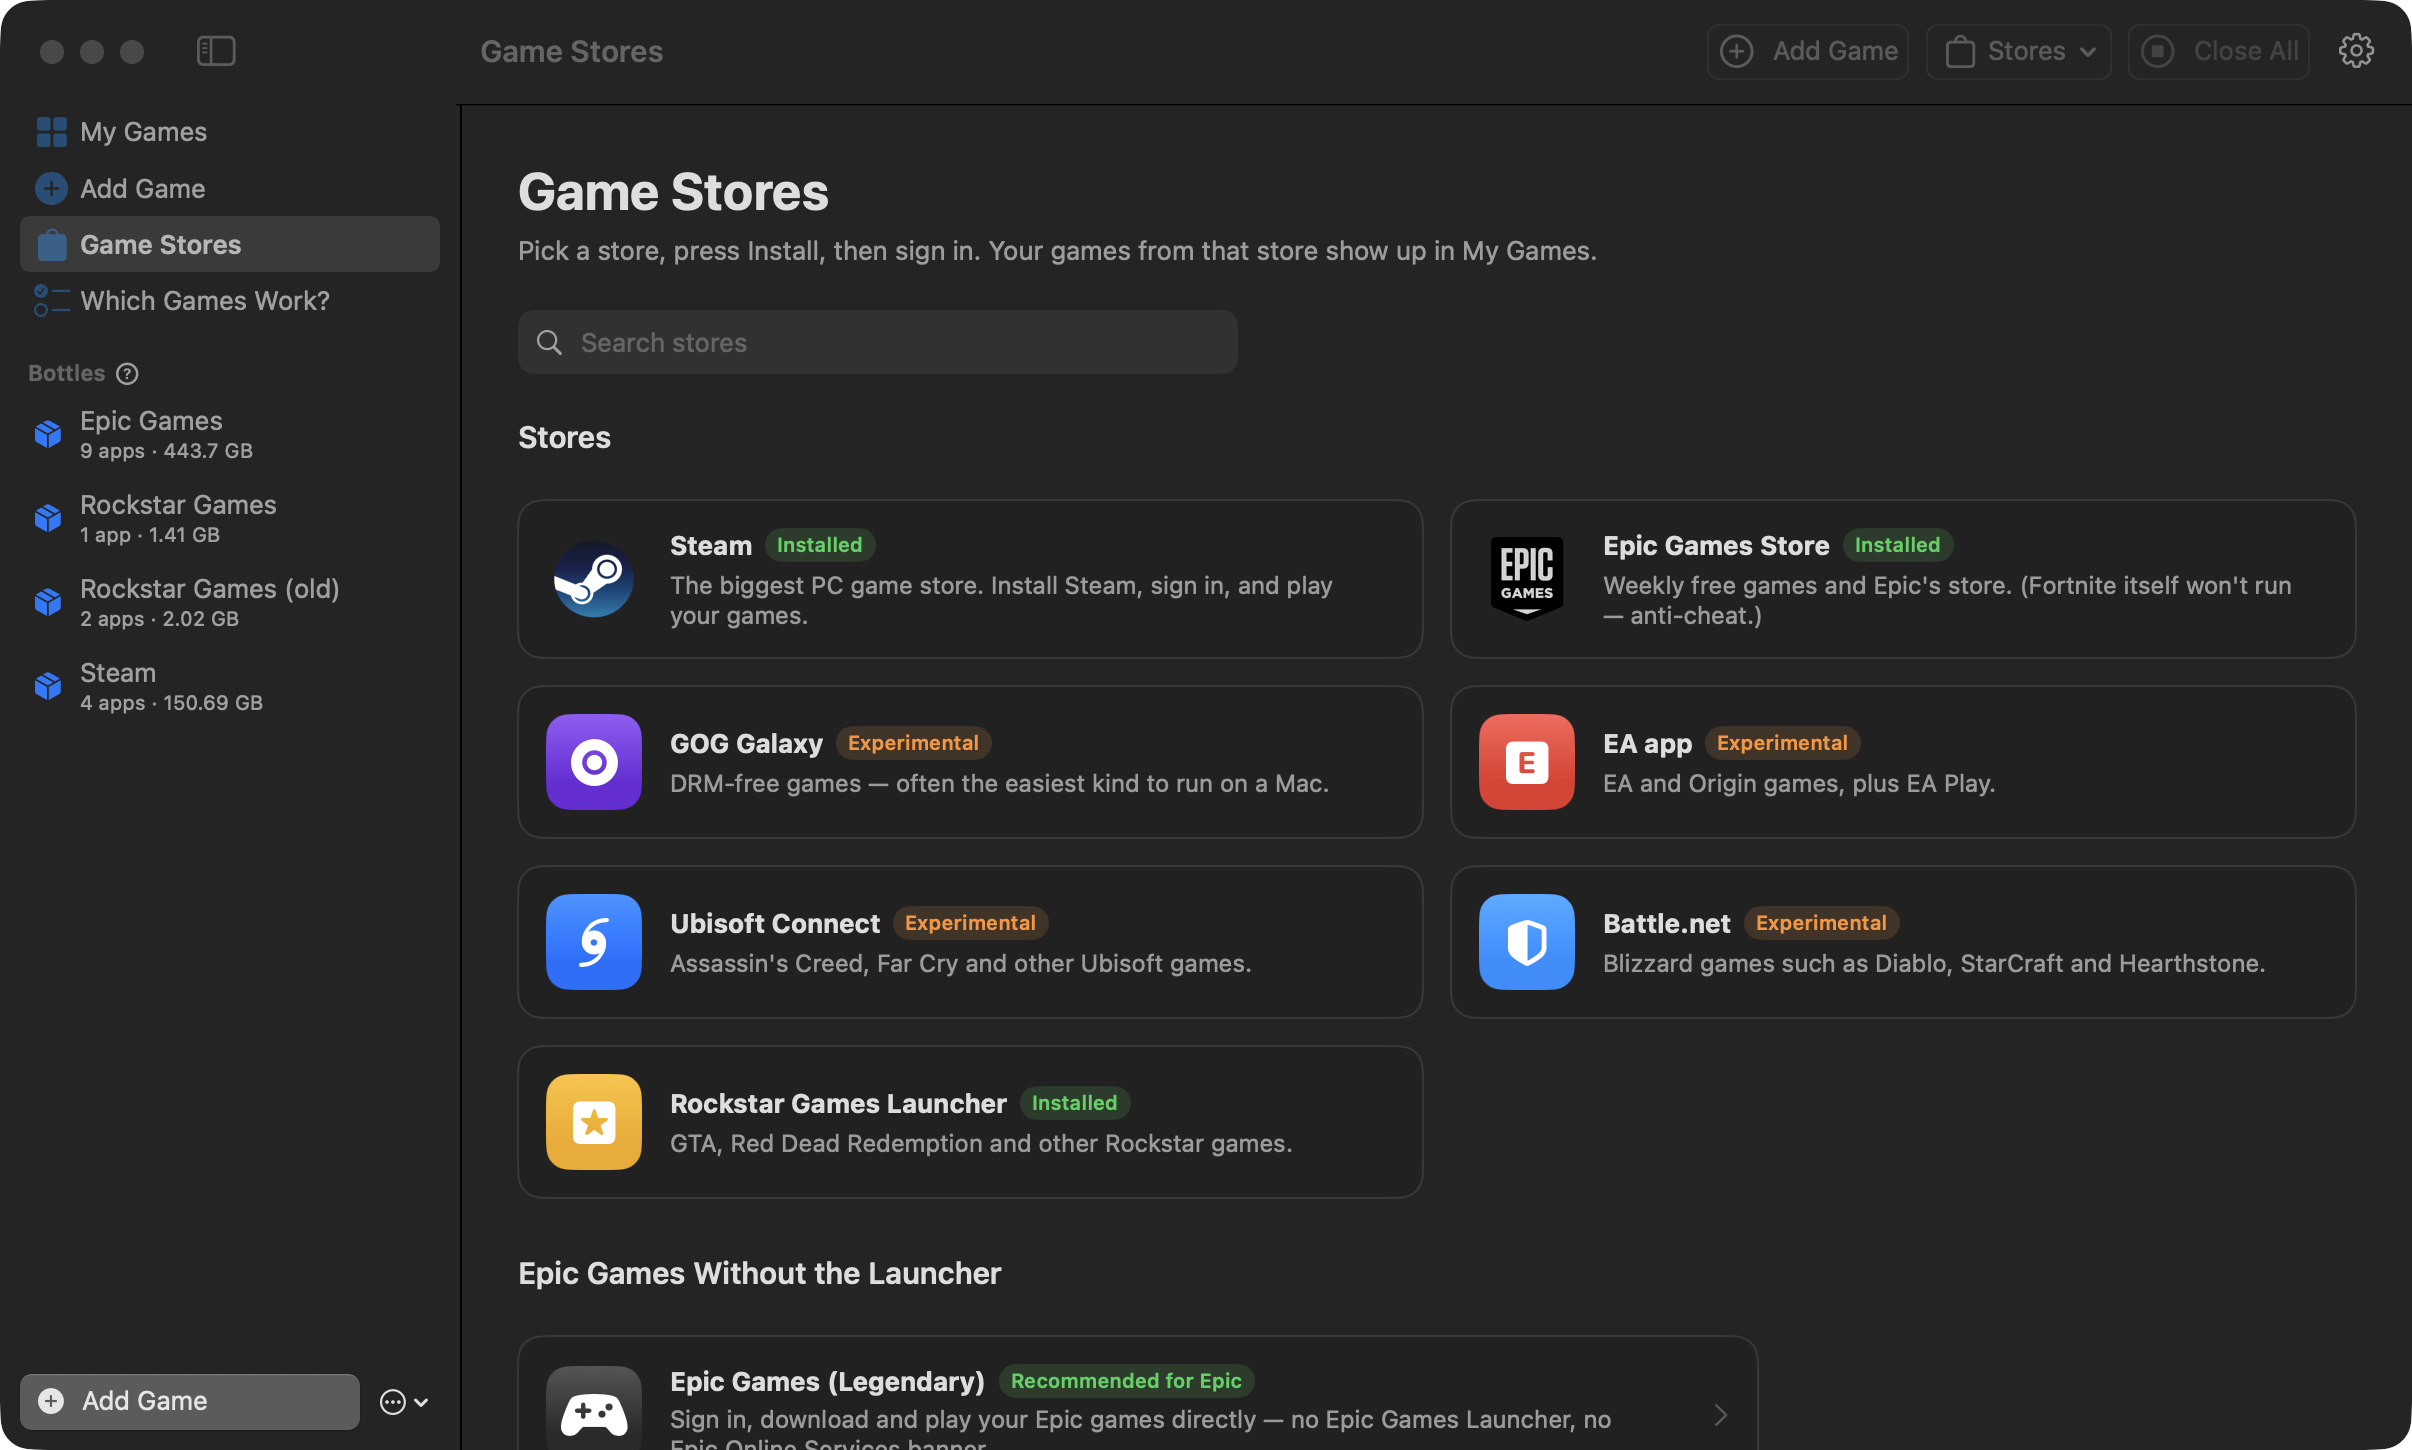
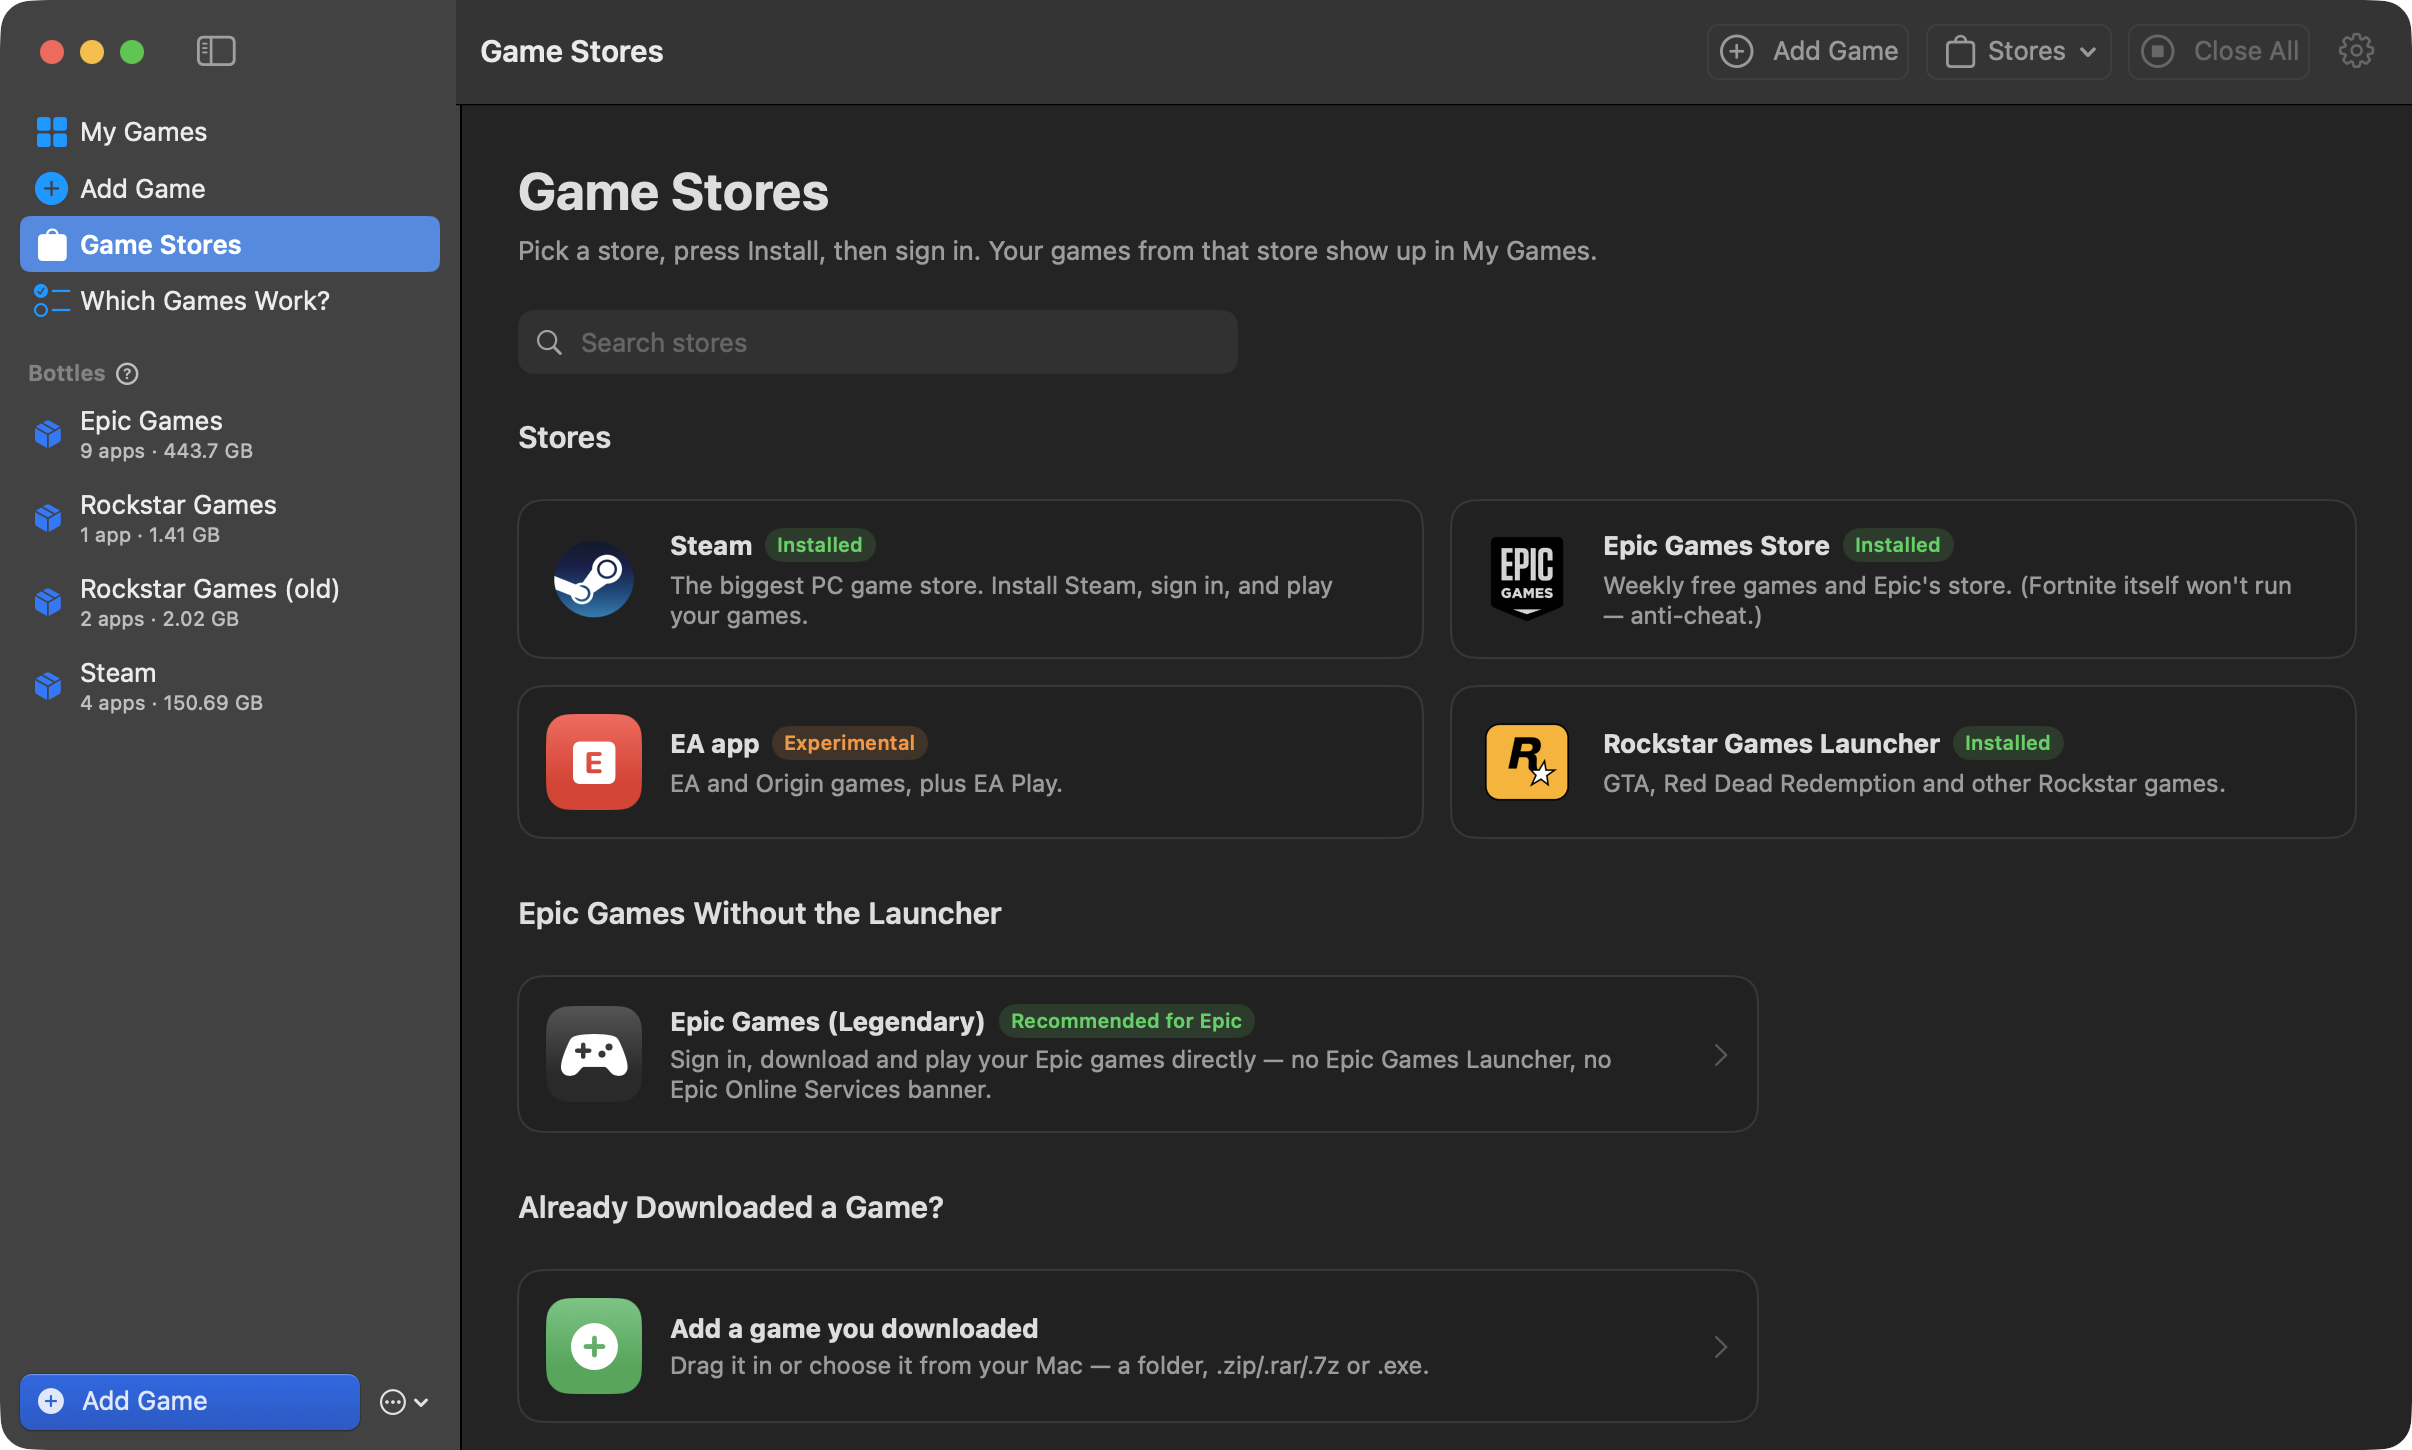
Update store list and screenshot

diff --git a/README.md b/README.md
@@ -22,7 +22,7 @@ graphics translation, runtimes and game stores. You don't need a Windows license
 Terminal commands.
 
 <p align="center">
-  <img src="docs/images/stores.png" alt="Portal's Game Stores page: Steam, Epic Games Store, GOG Galaxy, EA app, Ubisoft Connect, Battle.net and Rockstar Games Launcher" width="100%">
+  <img src="docs/images/stores.png" alt="Portal's Game Stores page: Steam, Epic Games Store, EA app and Rockstar Games Launcher" width="100%">
 </p>
 
 ## Install in 1 minute
@@ -41,7 +41,7 @@ Terminal commands.
 
 | | |
 |---|---|
-| **1. Get the game** | Use a store from **Game Stores** (Steam, Epic, GOG, EA, Ubisoft, Battle.net, Rockstar), or use a game you already downloaded. |
+| **1. Get the game** | Use a store from **Game Stores** (Steam, Epic, EA app, Rockstar), or use a game you already downloaded. |
 | **2. Put it in Portal** | Drag the game folder, `.zip`, `.rar`, `.7z` or `.exe` onto **Add Game**. Installers (`setup.exe`, `.msi`) run automatically. |
 | **3. Click Play** | The game appears in **My Games**. Next time, just click its poster. |
 
@@ -77,14 +77,14 @@ and it tells you plainly when a game won't run:
   **D3DMetal** (Apple, DirectX 11/12), **DXMT** (DirectX 10/11), **DXVK** (DirectX 9–11 through MoltenVK) or
   **WineD3D**. Use **Benchmark** in Power Tools to compare them.
 - **Automatic fixes.** Portal reads the game's files and installs missing Visual C++, DirectX and PhysX runtimes.
-  It starts the game's launcher (Steam, EA, Ubisoft, Rockstar) first when the game needs one. If a game crashes,
+  It starts the game's launcher (Steam, EA, Rockstar) first when the game needs one. If a game crashes,
   **Crash Doctor** reads the log and suggests a fix.
 
 ## Features
 
 | | |
 |---|---|
-| 🎮 **Game Stores** | One-click setup for Steam, Epic, GOG Galaxy, EA app, Ubisoft Connect, Battle.net and Rockstar Games Launcher. |
+| 🎮 **Game Stores** | One-click setup for Steam, Epic Games Store, EA app and Rockstar Games Launcher. |
 | 📦 **Drag and drop** | Folders, archives, `.exe` and installers. Portal finds the right `.exe` for you. |
 | 🖼 **Library** | Cover art for every installed game from every store, in one place. |
 | 🩺 **Crash Doctor** | Reads crash logs and explains what went wrong in plain words. |
